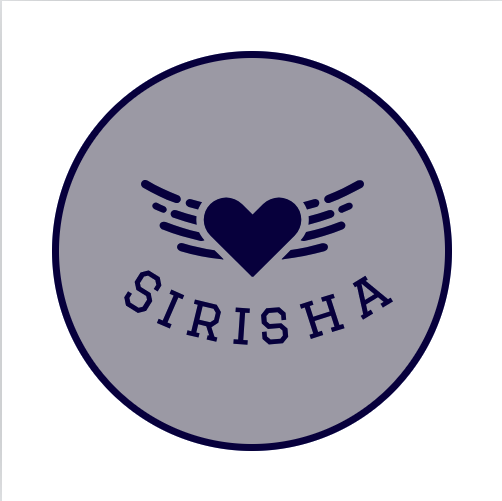
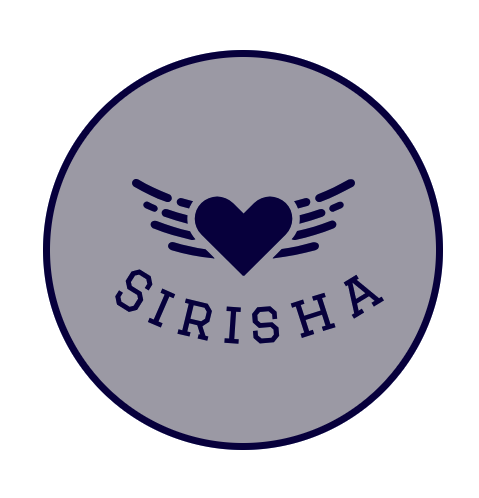
added header

diff --git a/index.html b/index.html
@@ -1,10 +1,76 @@
-Sirisha Saraswatibhatla
 <!DOCTYPE html>
 <html>
+
+<head>
+<meta name="viewport" content="width=device-width, initial-scale=1">
+<style>
+* {box-sizing: border-box;}
+
+body {
+  margin: 0;
+  font-family: Arial, Helvetica, sans-serif;
+}
+
+.header {
+  overflow: hidden;
+  background-color: #f1f1f1;
+  padding: 20px 10px;
+}
+
+.header a {
+  float: left;
+  color: black;
+  text-align: center;
+  padding: 12px;
+  text-decoration: none;
+  font-size: 18px;
+  line-height: 25px;
+  border-radius: 4px;
+}
+
+.header a.logo {
+  font-size: 25px;
+  font-weight: bold;
+}
+
+.header a:hover {
+  background-color: #ddd;
+  color: black;
+}
+
+.header a.active {
+  background-color: dodgerblue;
+  color: white;
+}
+
+.header-right {
+  float: right;
+}
+
+@media screen and (max-width: 500px) {
+  .header a {
+    float: none;
+    display: block;
+    text-align: left;
+  }
+
+  .header-right {
+    float: none;
+  }
+}
+</style>
+</head>
+
 <body>
-
+ <div class="header">
+   <img src="sirisha.png" alt="Sirisha Logo" width="200" height="200">
+   <div class="header-right">
+     <a class="active" href="#home">Home</a>
+     <a href="#contact">Contact</a>
+     <a href="#about">About</a>
+   </div>
 <button onclick="alert('Hello world!')">Click Me!</button>
-<img src="sirisha.png" alt="Sirisha Logo" width="42" height="42">
-</body>
+ </div>
 
+</body>
 </html>
